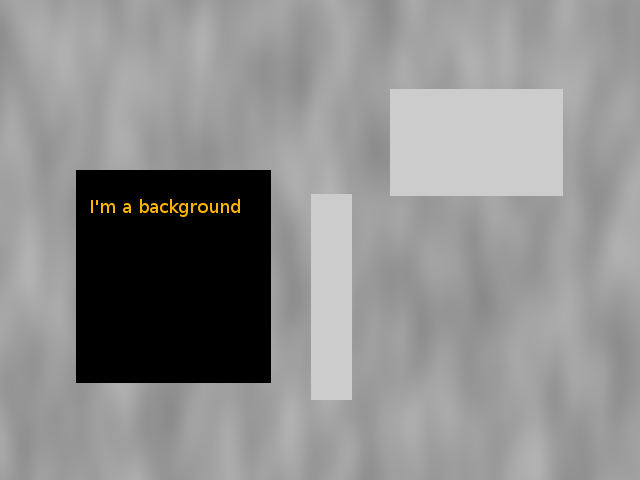
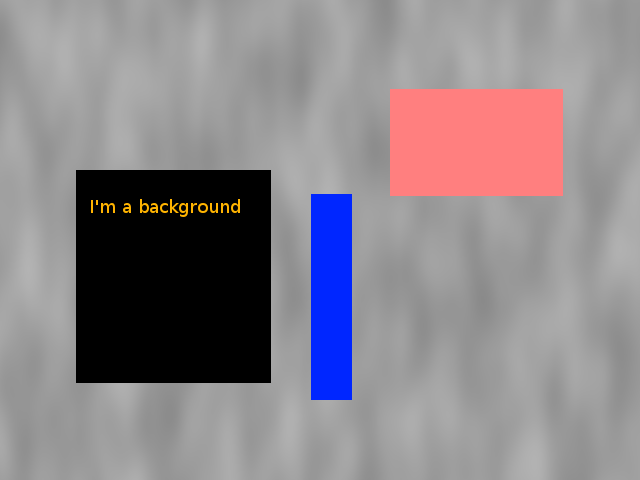
Started updating main.py to switch to Pyglet from Pygame.
Updated Level to use pyglet image loader and blitter.  Removed
image loader from rm.  Updated level files to include img in path.
Modified some colors in background images for debugging purposes.

Changed region(s): [[0.5938, 0.1875, 0.9062, 0.4062], [0.4688, 0.4062, 0.5625, 0.8438]]

diff --git a/main.py b/main.py
@@ -1,35 +1,28 @@
-import pygame
+import pyglet
 import constants
 import player
 import rm
 
 
-class Game:
+class Game(pyglet.window.Window):
 
-    def __init__(self):
-        self._running = True
-        self.screen = None
-        self.size = self.width, self.height = 640, 480
+    def __init__(self, *args, **kwargs):
+
+        # Call the base class initialize
+        super(Game, self).__init__(*args, **kwargs)
+
         self.entities = []
         self.levels = {}
         self.current_level = None
-        self.mainClock = pygame.time.Clock()
-
-    def initialize(self):
-
-        # Initialze pygame and the screen
-        pygame.init()
-        self.screen = pygame.display.set_mode(self.size, pygame.HWSURFACE)
-        self._running = True
 
         # Load all levels
         self.levels = rm.load_all_levels()
 
         # create the background image
         self.level_switch(self.levels[1])
-
-        # Create the player object
-        self.create_player()
+    #
+    #     # Create the player object
+    #     self.create_player()
 
     def level_switch(self, new_level):
 
@@ -37,73 +30,82 @@ class Game:
         self.current_level = new_level
 
         # Perform the intitial background blit
-        self.screen.blit(self.current_level.background, (0, 0))
+        self.current_level.draw()
+        # self.screen.blit(self.current_level.background, (0, 0))
 
-    def create_player(self):
+    # def create_player(self):
+    #
+    #     self.player = player.Player()
+    #
+    #     # load a sprite for the player
+    #     self.player.set_image(rm.load_image('guy.png'))
+    #
+    #     # Add the player to the entity list
+    #     self.entities.append(self.player)
+    #
+    # def handle_event(self, event):
+    #
+    #     if(event.type == pygame.QUIT):
+    #         self._running = False
+    #
+    #     # if the event was a keytype, pass to player
+    #     self.player.handle_event(event)
 
-        self.player = player.Player()
-
-        # load a sprite for the player
-        self.player.set_image(rm.load_image('guy.png'))
-
-        # Add the player to the entity list
-        self.entities.append(self.player)
-
-    def handle_event(self, event):
-
-        if(event.type == pygame.QUIT):
-            self._running = False
-
-        # if the event was a keytype, pass to player
-        self.player.handle_event(event)
-
-    def update(self):
-
-        # Get the time since the last update
-        elapsed_ms = self.mainClock.tick(constants.FRAMELIMIT_FPS)
-
-        # Call update on every object
-        for entity in self.entities:
-            entity.update(elapsed_ms)
-
-    def undraw(self):
+    def undraw_all_entities(self):
 
         # Call undraw on every object
         for entity in self.entities:
-            entity.undraw(self.screen, self.current_level.background)
+            entity.undraw(self, self.current_level.background)
 
         # For now, re-draw the entire background
         # self.screen.blit(self.background, (0,0))
 
-    def draw(self):
+    def update(self, dt):
+
+        # Undraw everything before moving them
+        self.undraw_all_entities()
+
+        # Call update on every object
+        for entity in self.entities:
+            entity.update(dt)
+
+    def draw_all_entities(self):
 
         # Call draw on every object
         for entity in self.entities:
             entity.draw(self.screen)
 
-        # Flip the display
-        pygame.display.flip()
+        # # Flip the display
+        # pygame.display.flip()
 
-    def quit(self):
-        pygame.quit()
+    def on_draw(self):
+
+        # Draw the current level
+        self.current_level.draw()
+
+        # Draw entities
+        self.draw_all_entities()
+
+        # Flip is called automatically by the event loop
+
 
     def run(self):
 
-        if(self.initialize() is False):
-            self._running = False
+        # Run Pyglet
+        pyglet.app.run()
 
-        while(self._running):
-
-            for event in pygame.event.get():
-                self.handle_event(event)
-
-            self.undraw()
-            self.update()
-            self.draw()
-
-        self.quit()
+        # while(self._running):
+        #
+        #     for event in pygame.event.get():
+        #         self.handle_event(event)
+        #
+        #     self.undraw()
+        #     self.update()
+        #     self.draw()
+        #
+        # self.quit()
 
 
 if __name__ == "__main__":
-    game = Game()
+    game = Game(width=640, height=480, vsync=True)
     game.run()

diff --git a/rm.py b/rm.py
@@ -1,22 +1,6 @@
-import pygame
 import os
 import constants
 import level
-
-
-def load_image(filename):
-
-    fullpath = os.path.join(constants.IMGDIR, filename)
-
-    try:
-        image = pygame.image.load(fullpath)
-    except pygame.error:
-        print('Cannot load image:', filename)
-        raise SystemExit
-
-    image.set_colorkey(constants.COLORKEY, pygame.RLEACCEL)
-
-    return image
 
 
 def load_all_levels():

diff --git a/level.py b/level.py
@@ -1,4 +1,4 @@
-import rm
+import pyglet
 
 
 class Level:
@@ -10,4 +10,7 @@ class Level:
         self.next_level = 0
 
     def set_background(self, filename):
-        self.background = rm.load_image(filename)
+        self.background = pyglet.image.load(filename)
+
+    def draw(self):
+        self.background.blit(0, 0)
